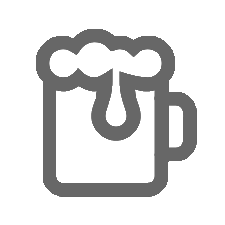
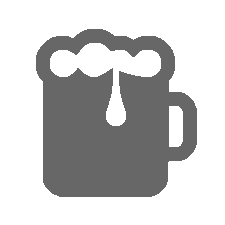
sign in page done

diff --git a/app/assets/stylesheets/pages/_home.scss b/app/assets/stylesheets/pages/_home.scss
@@ -7,6 +7,7 @@
   display: flex;
   flex-direction: column;
   position: relative;
+  height: 100vh;
 }
 
 .text-top-center {
@@ -21,8 +22,253 @@
 
 #text-header {
   font-weight: bolder;
+  font-size: 20vh;
+  letter-spacing: 5px;
+  padding-top: 15vh;
 }
 
 #text-sub-header {
   letter-spacing: 3px;
+  padding-bottom: 10vh;
+  margin-top: 0;
 }
+
+.banner-content p {
+  color: #ffbc68;
+}
+
+/* Loaded body */
+body.loaded {
+  opacity: 1;
+  transition: 1s opacity;
+}
+
+/* Default banner */
+.banner {
+  position: relative;
+  width: 100vw;
+  height: 100vh;
+  padding: 0 5%;
+  overflow: hidden;
+  backface-visibility: hidden;
+}
+
+/* Default image container */
+.banner .background {
+  width: 100%;
+  height: 100%;
+  position: absolute;
+  left: 0;
+  top: 0;
+  z-index: 0;
+  transform: translate3d(0,0,0) scale(1.25);
+  background: black url(https://images.unsplash.com/photo-1542326891-50b14105a80b?ixlib=rb-1.2.1&ixid=eyJhcHBfaWQiOjEyMDd9&auto=format&fit=crop&w=2549&q=80) no-repeat center center;
+  background-size: cover;
+  filter: brightness(60%);
+}
+
+.banner-content {
+  position: absolute;
+  top: 0;
+  bottom: 0;
+  left: 0;
+  right: 0;
+  color: $white;
+  display: flex;
+  flex-direction: column;
+  justify-content: center;
+  text-align: center;
+}
+
+/* Loaded image container */
+.loaded .banner .background {
+  transform: scale(1);
+  transition: 6.5s transform;
+}
+
+
+
+// BEEERRRRRRRR
+.home-container {
+  background-color: #0e83cd;
+  color: $white;
+  font-weight: bolder;
+  h1 {
+    letter-spacing: 5px;
+  }
+}
+
+#beer-container {
+  height: 70vh;
+  margin: 0 0;
+  overflow: hidden;
+  position: relative;
+  top: -20px;
+  width: 248px;
+}
+
+#beer-container div { position: absolute; }
+
+.pour {
+  top: 30px;
+  position: absolute;
+  left: 45%;
+  width: 20px;
+  height: 0px;
+  background-color: #edaf32;
+  border-radius: 10px
+}
+
+#beaker {
+  border: 10px solid #FFF;
+  border-top: 0;
+  border-radius: 0 0 30px 30px;
+  height: 300px;
+  left: 14px;
+  bottom: 0;
+  width: 220px;
+}
+
+// #beaker:before,
+// #beaker:after {
+//   border: 10px solid #FFF;
+//   border-bottom: 0;
+//   border-radius: 30px 30px 0 0;
+//   content: '';
+//   height: 30px;
+//   position: absolute;
+//   top: -40px;
+//   width: 30px;
+// }
+
+// #beaker:before { left: -50px; }
+// #beaker:after { right: -50px; }
+
+#liquid {
+  background-color: #edaf32;
+  border: 10px solid #edaf32;
+  border-radius: 0 0 20px 20px;
+  bottom: 0;
+  height: 0px;
+  overflow: hidden;
+  width: 200px;
+}
+
+#liquid:after {
+  background-color: rgba(255, 255, 255, 0.25);
+  bottom: -10px;
+  content: '';
+  height: 280px;
+  left: -40px;
+  position: absolute;
+  transform: rotate(30deg);
+  -webkit-transform: rotate(15deg);
+  width: 110px;
+}
+
+#liquid .bubble {
+  -webkit-animation-name: bubble;
+  -webkit-animation-iteration-count: infinite;
+  -webkit-animation-timing-function: linear;
+  background-color: rgba(255, 255, 255, 0.2);
+  bottom: 0;
+  border-radius: 10px;
+  height: 20px;
+  width: 20px;
+}
+
+@-webkit-keyframes bubble {
+  0% { bottom: 0; }
+
+   50% {
+     background-color: rgba(255, 255, 255, 0.2);
+      bottom: 80px;
+   }
+
+   100% {
+     background-color: rgba(255, 255, 255, 0);
+      bottom: 160px;
+   }
+}
+
+.bubble1 {
+  left: 10px;
+  -webkit-animation-delay: 1000ms;
+  -webkit-animation-duration: 1000ms;
+}
+
+.bubble2 {
+  left: 50px;
+  -webkit-animation-delay: 700ms;
+  -webkit-animation-duration: 1100ms;
+}
+
+.bubble3 {
+  left: 100px;
+  -webkit-animation-delay: 1200ms;
+  -webkit-animation-duration: 1300ms;
+}
+
+.bubble4 {
+  left: 130px;
+  -webkit-animation-delay: 1100ms;
+  -webkit-animation-duration: 700ms;
+}
+
+.bubble5 {
+  left: 170px;
+  -webkit-animation-delay: 1300ms;
+  -webkit-animation-duration: 800ms;
+}
+
+/* Foam */
+
+.beer-foam {
+  position: absolute;
+  bottom: 10px;
+}
+
+.foam-1, .foam-2, .foam-3, .foam-4,
+.foam-5, .foam-6, .foam-7 {
+  float: left;
+  position: absolute;
+  z-index: 999;
+  width: 50px;
+  height: 50px;
+  border-radius: 30px;
+  background-color: #fefefe;
+}
+.foam-1 {
+  top: -33px;
+  left: -10px;
+}
+.foam-2 {
+  top: -35px;
+  left: 20px;
+}
+.foam-3 {
+  top: -25px;
+  left: 50px;
+}
+.foam-4 {
+  top: -35px;
+  left: 80px;
+}
+.foam-5 {
+  top: -30px;
+  left: 110px;
+}
+.foam-6 {
+  top: -20px;
+  left: 140px;
+}
+.foam-7 {
+  top: -30px;
+  left: 160px;
+}
+
+/* Drunk Text */
+
+
+
+

diff --git a/app/javascript/packs/homepage.js b/app/javascript/packs/homepage.js
@@ -1,0 +1,31 @@
+window.onload = function() {
+  document.body.className += ' loaded'
+};
+
+$(document).ready(function() {
+  $('.pour') //Pour Me Another Drink, Bartender!
+    .delay(2000)
+    .animate({
+      height: '400px'
+      }, 1500)
+    .delay(1600)
+    .slideUp(500);
+
+  $('#liquid') // I Said Fill 'Er Up!
+    .delay(3400)
+    .animate({
+      height: '280px'
+    }, 2500);
+
+  $('.beer-foam') // Keep that Foam Rollin' Toward the Top! Yahooo!
+    .delay(3400)
+    .animate({
+      bottom: '280px'
+      }, 2500);
+
+  $('.tagline')
+    .delay(3400)
+    .animate({
+      bottom: '50px'
+      }, 2500);
+});

diff --git a/app/assets/stylesheets/components/_button.scss b/app/assets/stylesheets/components/_button.scss
@@ -1,17 +1,17 @@
 .fb-signup {
-  background-color: #4267b2;
+  background-color: $white;
   padding: 10px;
   border-radius: 8px;
   text-decoration: none;
-  color: $white;
+  color: #4267b2;
   &:hover {
     text-decoration: none;
-    color: $white;
+    color: #4267b2;
   }
   &:active {
     text-decoration: none;
-    color: $white;
-    background-color: #495e88;
+    color: #4267b2;
+    background-color: $white;
   }
 }
 
